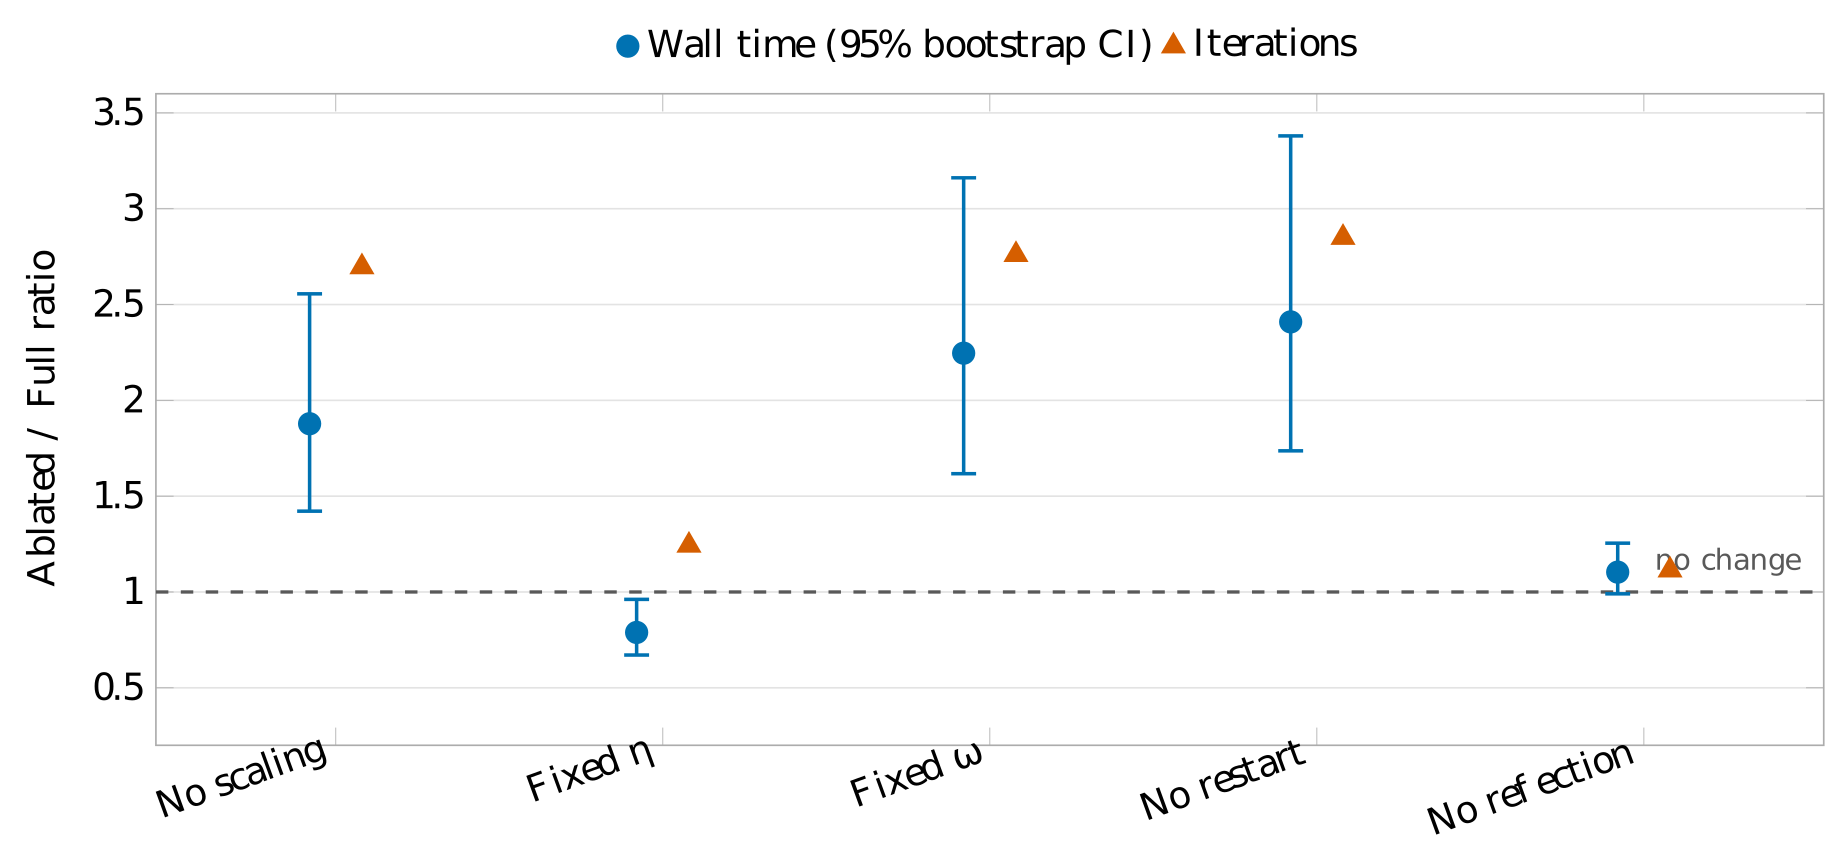
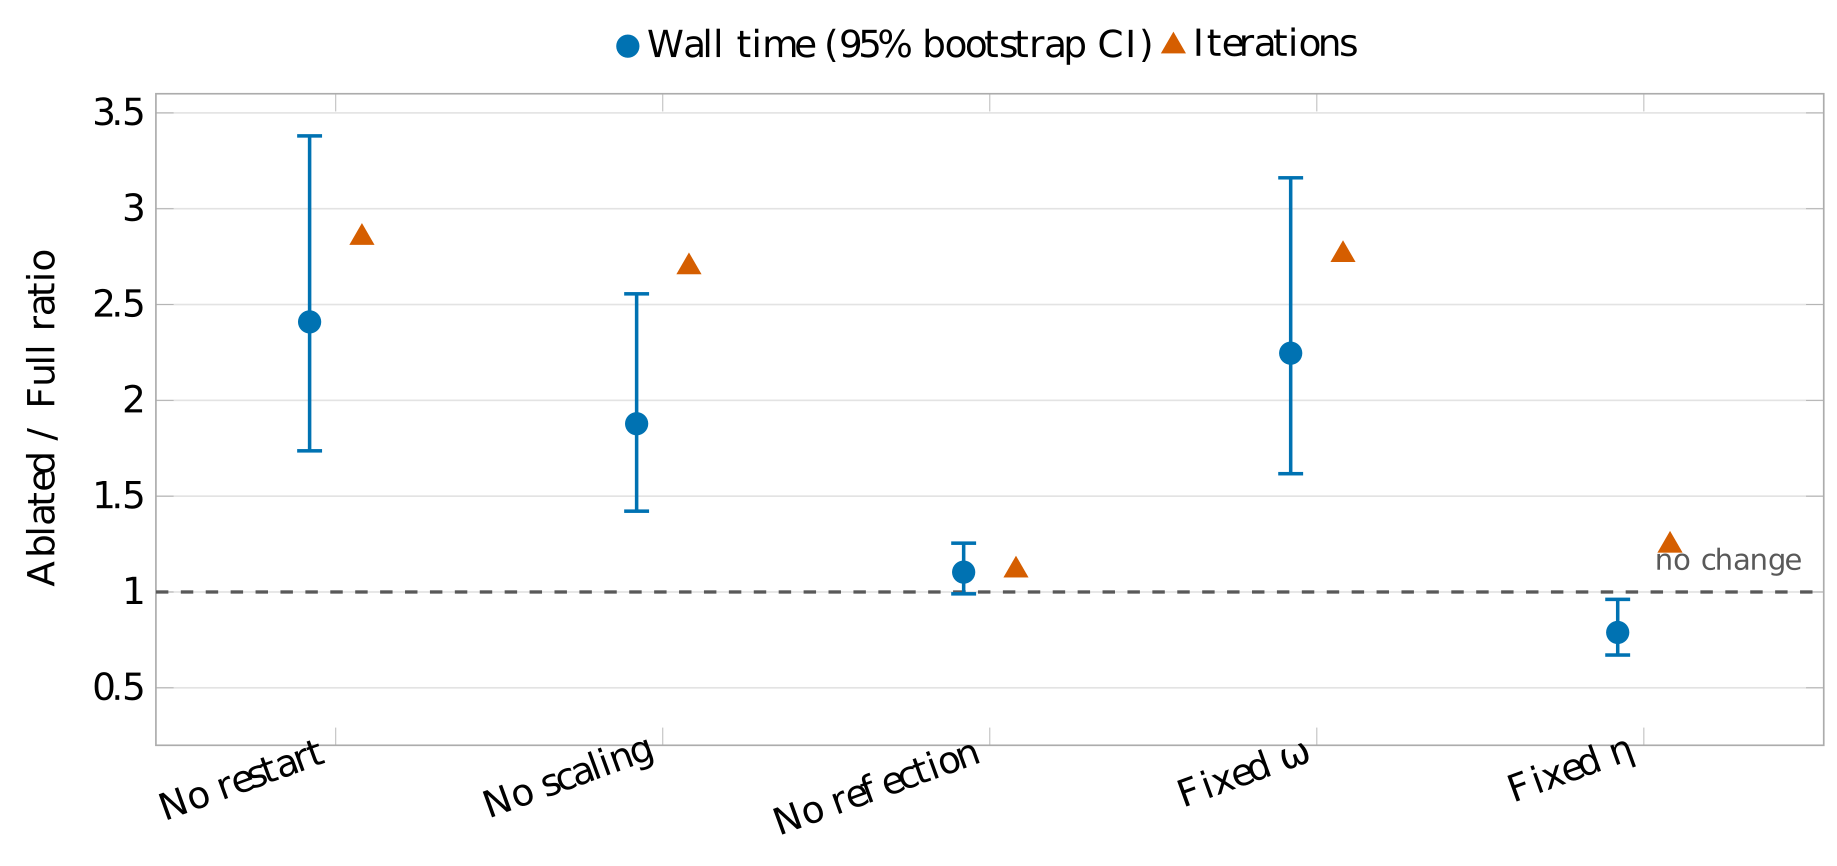
Align one-at-a-time ablation component order

diff --git a/rebuttal_plan/figures/one_at_a_time_ablation_paired_effects.tex b/rebuttal_plan/figures/one_at_a_time_ablation_paired_effects.tex
@@ -15,7 +15,7 @@
   ymin=0.2,
   ymax=3.6,
   xtick={1,2,3,4,5},
-  xticklabels={No scaling,Fixed $\eta$,Fixed $\omega$,No restart,No reflection},
+  xticklabels={No restart,No scaling,No reflection,Fixed $\omega$,Fixed $\eta$},
   xticklabel style={rotate=20,anchor=east,font=\small},
   ytick={0.5,1,1.5,2,2.5,3,3.5},
   ylabel={Ablated / Full ratio},
@@ -50,11 +50,11 @@
   error bar style={line width=0.85pt},
   error mark options={rotate=90,mark size=3pt,line width=0.85pt},
 ] coordinates {
-  (0.92,1.8779948) += (0,0.677842) -= (0,0.45627364)
-  (1.92,0.78885785) += (0,0.17248588) -= (0,0.11786747)
-  (2.92,2.2461189) += (0,0.91521003) -= (0,0.62871952)
-  (3.92,2.409411) += (0,0.9707409) -= (0,0.67290991)
-  (4.92,1.103572) += (0,0.15108319) -= (0,0.11322304)
+  (0.92,2.409411) += (0,0.9707409) -= (0,0.67290991)
+  (1.92,1.8779948) += (0,0.677842) -= (0,0.45627364)
+  (2.92,1.103572) += (0,0.15108319) -= (0,0.11322304)
+  (3.92,2.2461189) += (0,0.91521003) -= (0,0.62871952)
+  (4.92,0.78885785) += (0,0.17248588) -= (0,0.11786747)
 };
 \addlegendentry{Wall time (95\% bootstrap CI)}
 
@@ -65,11 +65,11 @@
   color=pdcsorange,
   mark options={fill=pdcsorange},
 ] coordinates {
-  (1.08,2.6959689)
-  (2.08,1.2431207)
-  (3.08,2.759679)
-  (4.08,2.8493643)
-  (5.08,1.1134862)
+  (1.08,2.8493643)
+  (2.08,2.6959689)
+  (3.08,1.1134862)
+  (4.08,2.759679)
+  (5.08,1.2431207)
 };
 \addlegendentry{Iterations}
 

diff --git a/benchmark/ablation/plot_one_at_a_time_ablation.py b/benchmark/ablation/plot_one_at_a_time_ablation.py
@@ -25,36 +25,36 @@ from plot_progressive_ablation import (
 
 CONFIGURATIONS = [
     "full",
-    "no_scaling",
-    "no_adaptive_step",
-    "no_adaptive_primal_weight",
     "no_restart",
+    "no_scaling",
     "no_reflection",
+    "no_adaptive_primal_weight",
+    "no_adaptive_step",
 ]
 
 CONFIGURATION_LABELS = [
     "Full",
-    "No scaling",
-    r"Fixed $\eta$",
-    r"Fixed $\omega$",
     "No restart",
+    "No scaling",
     "No reflection",
+    r"Fixed $\omega$",
+    r"Fixed $\eta$",
 ]
 
 ABLATIONS = [
-    "no_scaling",
-    "no_adaptive_step",
-    "no_adaptive_primal_weight",
     "no_restart",
+    "no_scaling",
     "no_reflection",
+    "no_adaptive_primal_weight",
+    "no_adaptive_step",
 ]
 
 ABLATION_LABELS = [
-    "No scaling",
-    r"Fixed $\eta$",
-    r"Fixed $\omega$",
     "No restart",
+    "No scaling",
     "No reflection",
+    r"Fixed $\omega$",
+    r"Fixed $\eta$",
 ]
 
 

diff --git a/rebuttal_plan/figures/one_at_a_time_ablation_sgm.tex b/rebuttal_plan/figures/one_at_a_time_ablation_sgm.tex
@@ -12,7 +12,7 @@
   xmin=0.45,
   xmax=6.55,
   xtick={1,2,3,4,5,6},
-  xticklabels={Full,No scaling,Fixed $\eta$,Fixed $\omega$,No restart,No reflection},
+  xticklabels={Full,No restart,No scaling,No reflection,Fixed $\omega$,Fixed $\eta$},
   xticklabel style={rotate=27,anchor=east,font=\small},
   tick label style={font=\small},
   label style={font=\small},
@@ -38,7 +38,7 @@
       {\pgfplotspointmeta}
   },
   every node near coord/.append style={font=\scriptsize},
-] coordinates {(1,24.224281) (2,56.606236) (3,22.40793) (4,59.920699) (5,63.3505) (6,27.351275)};
+] coordinates {(1,24.224281) (2,63.3505) (3,56.606236) (4,27.351275) (5,59.920699) (6,22.40793)};
 \end{axis}
 \end{tikzpicture}
 \end{document}

diff --git a/rebuttal_plan/figures/one_at_a_time_ablation_solved.tex b/rebuttal_plan/figures/one_at_a_time_ablation_solved.tex
@@ -12,7 +12,7 @@
   xmin=0.45,
   xmax=6.55,
   xtick={1,2,3,4,5,6},
-  xticklabels={Full,No scaling,Fixed $\eta$,Fixed $\omega$,No restart,No reflection},
+  xticklabels={Full,No restart,No scaling,No reflection,Fixed $\omega$,Fixed $\eta$},
   xticklabel style={rotate=27,anchor=east,font=\small},
   tick label style={font=\small},
   label style={font=\small},
@@ -38,7 +38,7 @@
       {\pgfplotspointmeta}
   },
   every node near coord/.append style={font=\scriptsize},
-] coordinates {(1,56) (2,44) (3,55) (4,47) (5,45) (6,55)};
+] coordinates {(1,56) (2,45) (3,44) (4,55) (5,47) (6,55)};
 \end{axis}
 \end{tikzpicture}
 \end{document}
